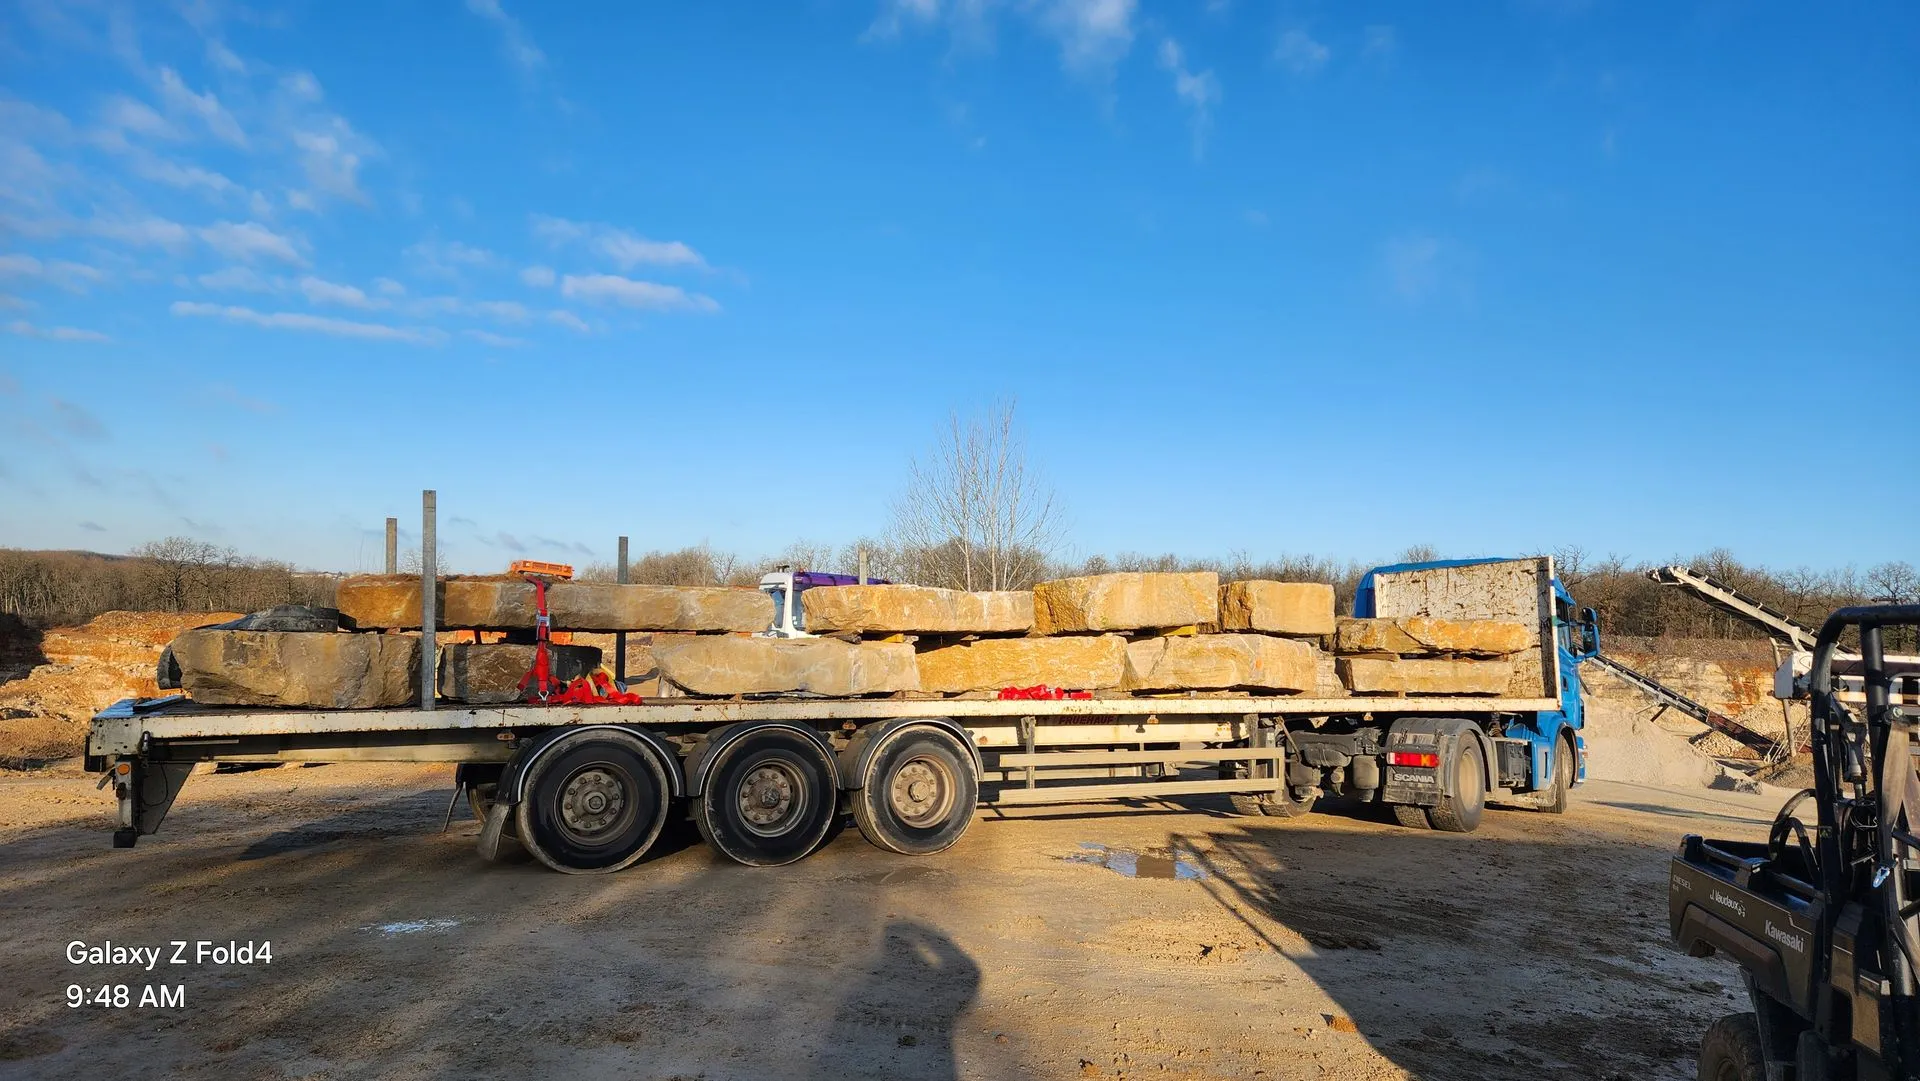
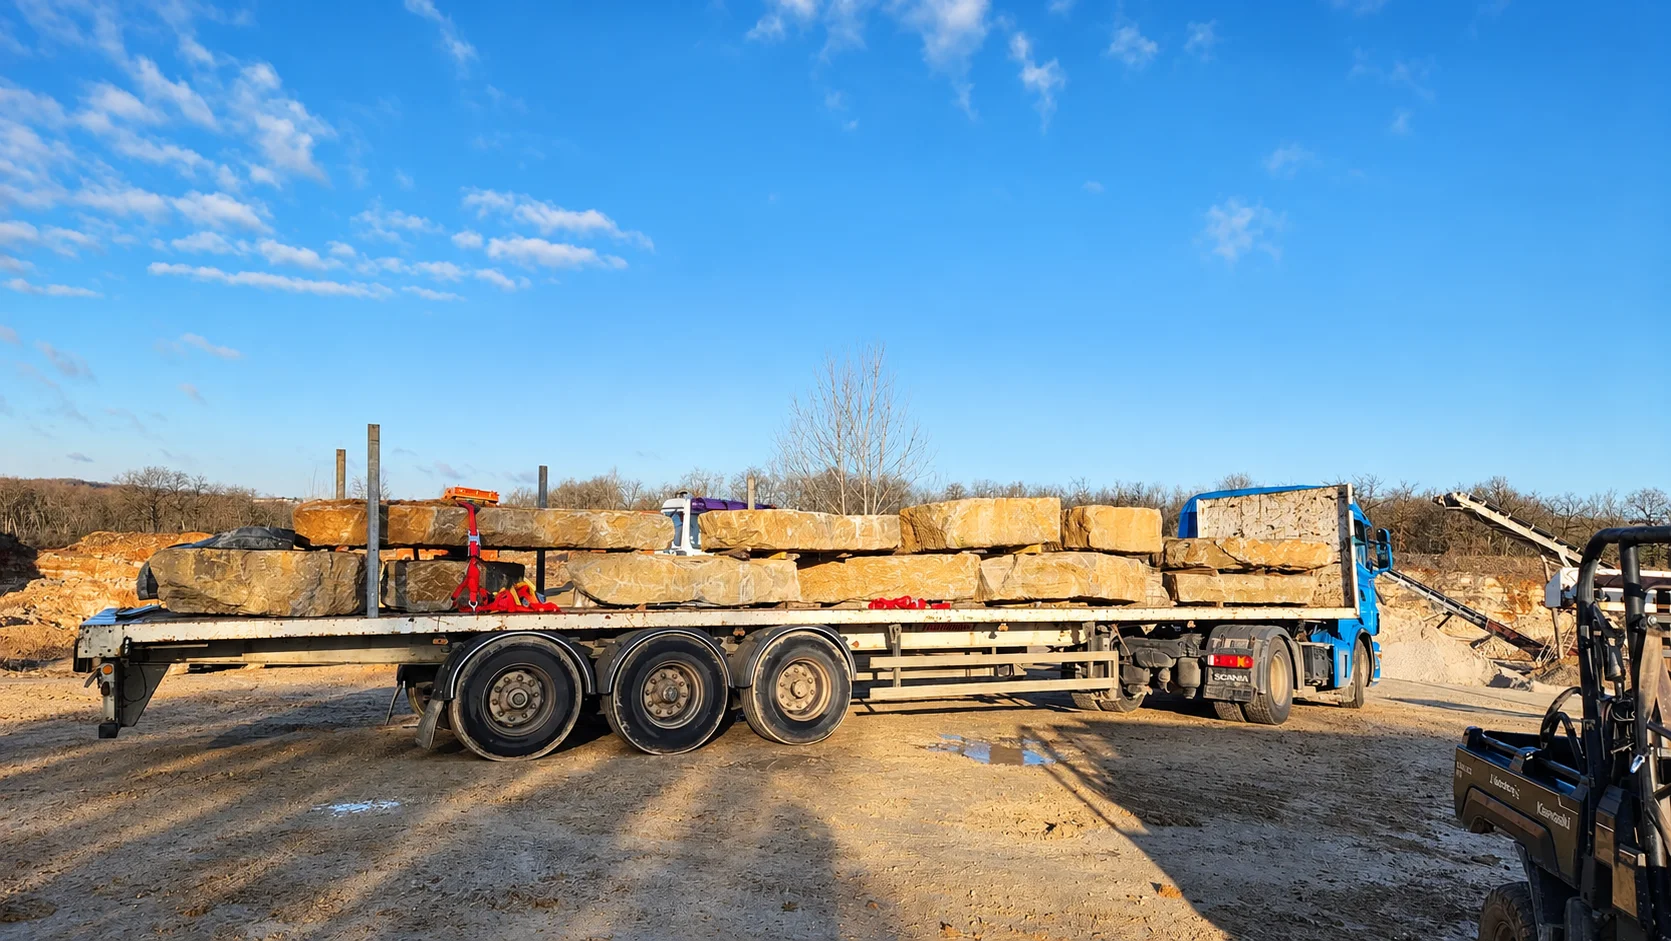
feat: remplace chargement-dalles par photo camion Scania blocs
- Nouveau WebP 1671×941 (camion Scania chargé de blocs calcaire)
- Version mobile 800w générée
- Alt texts mis à jour sur index, realisations, pierres, geo/rodez

diff --git a/realisations/index.html b/realisations/index.html
@@ -67,7 +67,7 @@
 
           <div class="realisation-card">
             <img src="/assets/images/realisations/chargement-dalles.webp"
-                 alt="Dalles de taille en pierre calcaire — chargement carrière"
+                 alt="Camion Scania chargé de blocs de pierre calcaire — carrière Rustica Pierre"
                  loading="lazy">
             <div class="realisation-overlay">
               <span class="realisation-label">Dalles de taille</span>
@@ -122,7 +122,7 @@
             <p class="article-card-excerpt">Technique ancestrale, sans mortier. Les étapes clés pour réussir votre mur.</p>
           </article>
           <article class="article-card">
-                        <img class="article-card-img" src="/assets/images/realisations/chargement-dalles.webp" alt="Dalle pierre naturelle" loading="lazy">
+                        <img class="article-card-img" src="/assets/images/realisations/chargement-dalles.webp" alt="Blocs de pierre naturelle chargés sur camion" loading="lazy">
 <span class="article-card-cat">Guide</span>
             <a href="/journal/dalle-pierre-naturelle-ou-beton/" class="article-card-title">Dalle pierre naturelle ou béton — que choisir ?</a>
             <p class="article-card-excerpt">Comparatif complet pour choisir la bonne solution pour votre terrasse.</p>

diff --git a/pierres/index.html b/pierres/index.html
@@ -238,12 +238,12 @@
               <div class="product-img-wrap">
                 <img class="product-main-img"
                      src="/assets/images/realisations/chargement-dalles.webp"
-                     alt="Chargement de dalles de taille en pierre calcaire" loading="lazy">
+                     alt="Livraison de blocs de pierre calcaire — camion Scania Rustica Pierre" loading="lazy">
               </div>
               <div class="product-thumbs">
                 <img class="product-thumb active"
                      src="/assets/images/realisations/chargement-dalles.webp"
-                     alt="Dalles de taille — chargement carrière" loading="lazy">
+                     alt="Blocs de pierre calcaire — livraison carrière" loading="lazy">
                 <img class="product-thumb"
                      src="/assets/images/realisations/mur-dalles-lectoure.webp"
                      alt="Pose de dalles calcaires — chantier" loading="lazy">

diff --git a/index.html b/index.html
@@ -217,7 +217,7 @@
             <div class="realisation-overlay"><span class="realisation-label">Bassin & muret</span></div>
           </div>
           <div class="realisation-card">
-            <img src="/assets/images/realisations/chargement-dalles.webp" alt="Dalles de taille en pierre calcaire" loading="lazy">
+            <img src="/assets/images/realisations/chargement-dalles.webp" alt="Camion Scania chargé de blocs de pierre calcaire — carrière Rustica Pierre" loading="lazy">
             <div class="realisation-overlay"><span class="realisation-label">Dalles de taille</span></div>
           </div>
           <div class="realisation-card">

diff --git a/geo/rodez/index.html b/geo/rodez/index.html
@@ -148,7 +148,7 @@
             </div>
           </article>
           <article class="product-card">
-            <img src="/assets/images/realisations/chargement-dalles.webp" alt="Dalles de pierre naturelle livrées à Rodez" class="product-card-img" loading="lazy">
+            <img src="/assets/images/realisations/chargement-dalles.webp" alt="Blocs de pierre calcaire livrés à Rodez — Rustica Pierre" class="product-card-img" loading="lazy">
             <div class="product-card-body">
               <p class="label-mono product-card-label">Dalles</p>
               <h3 class="product-card-title">Dalles naturelles</h3>
